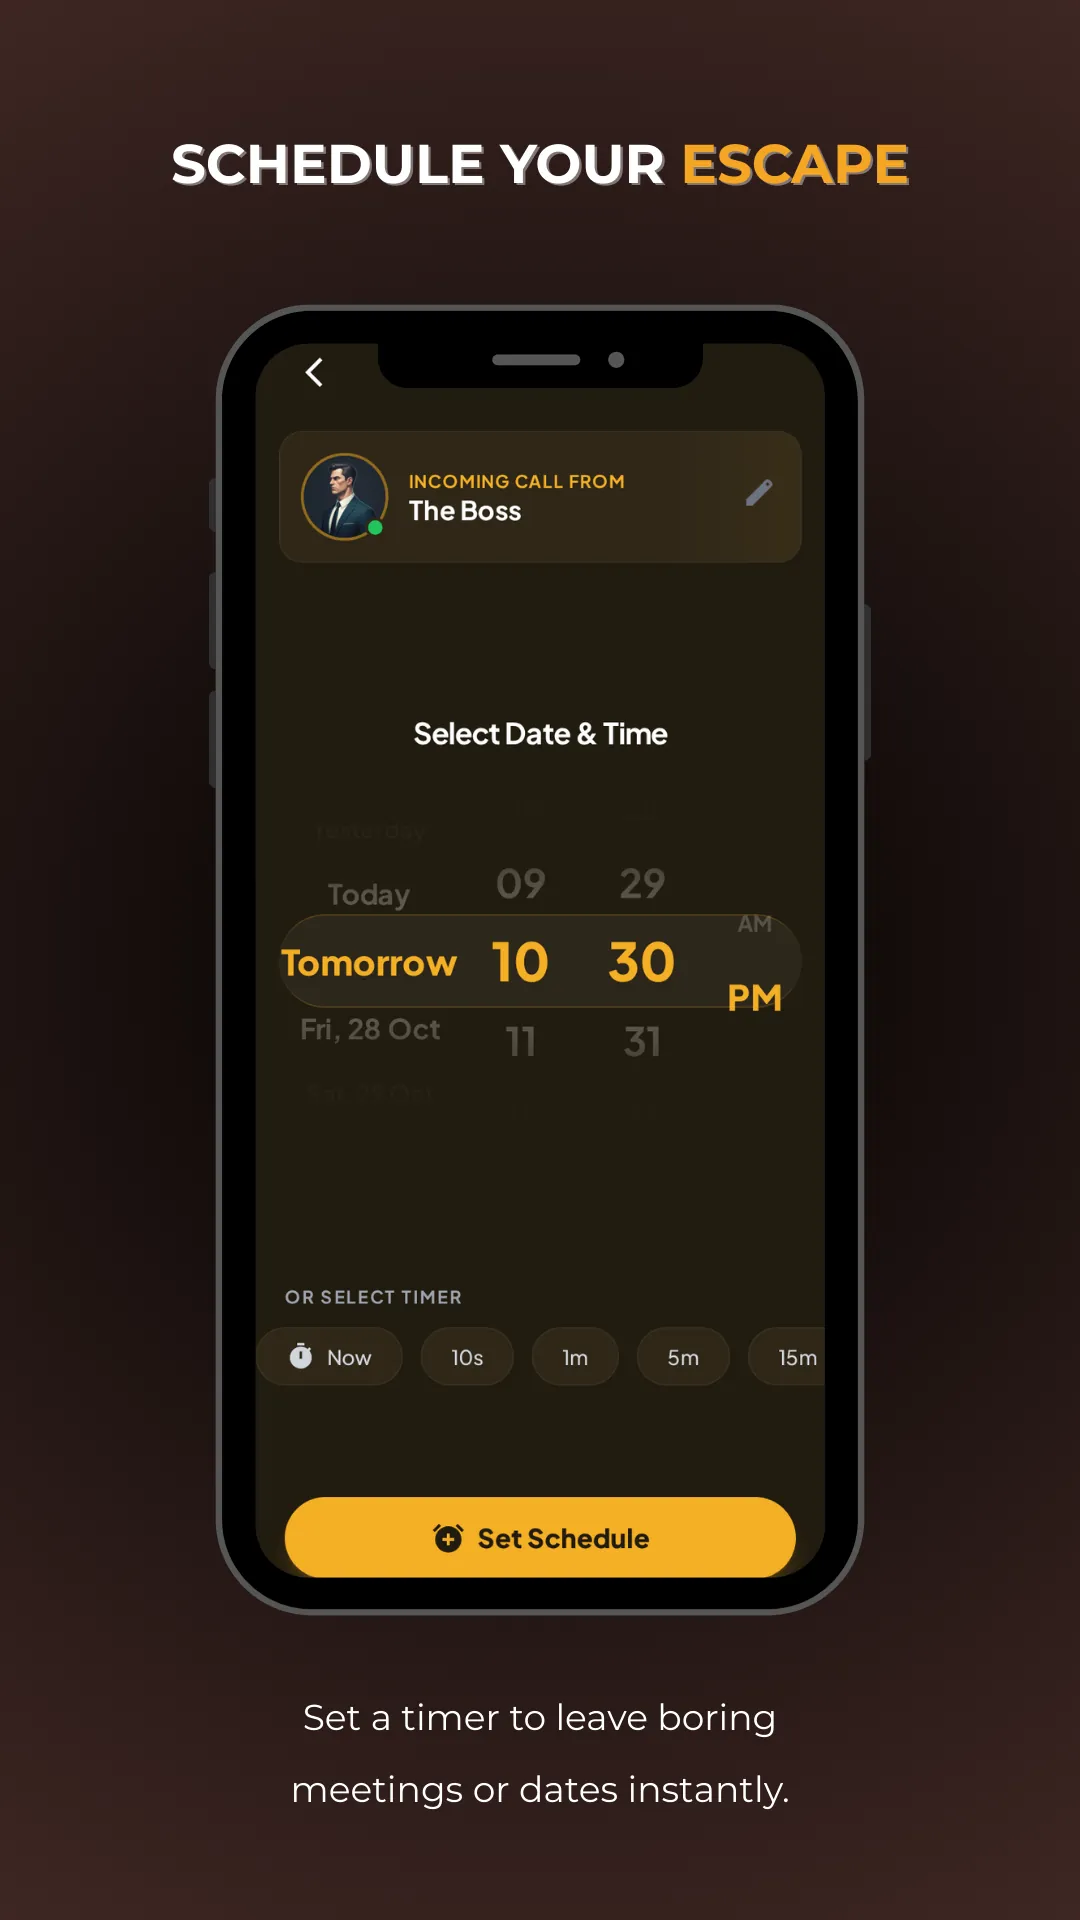
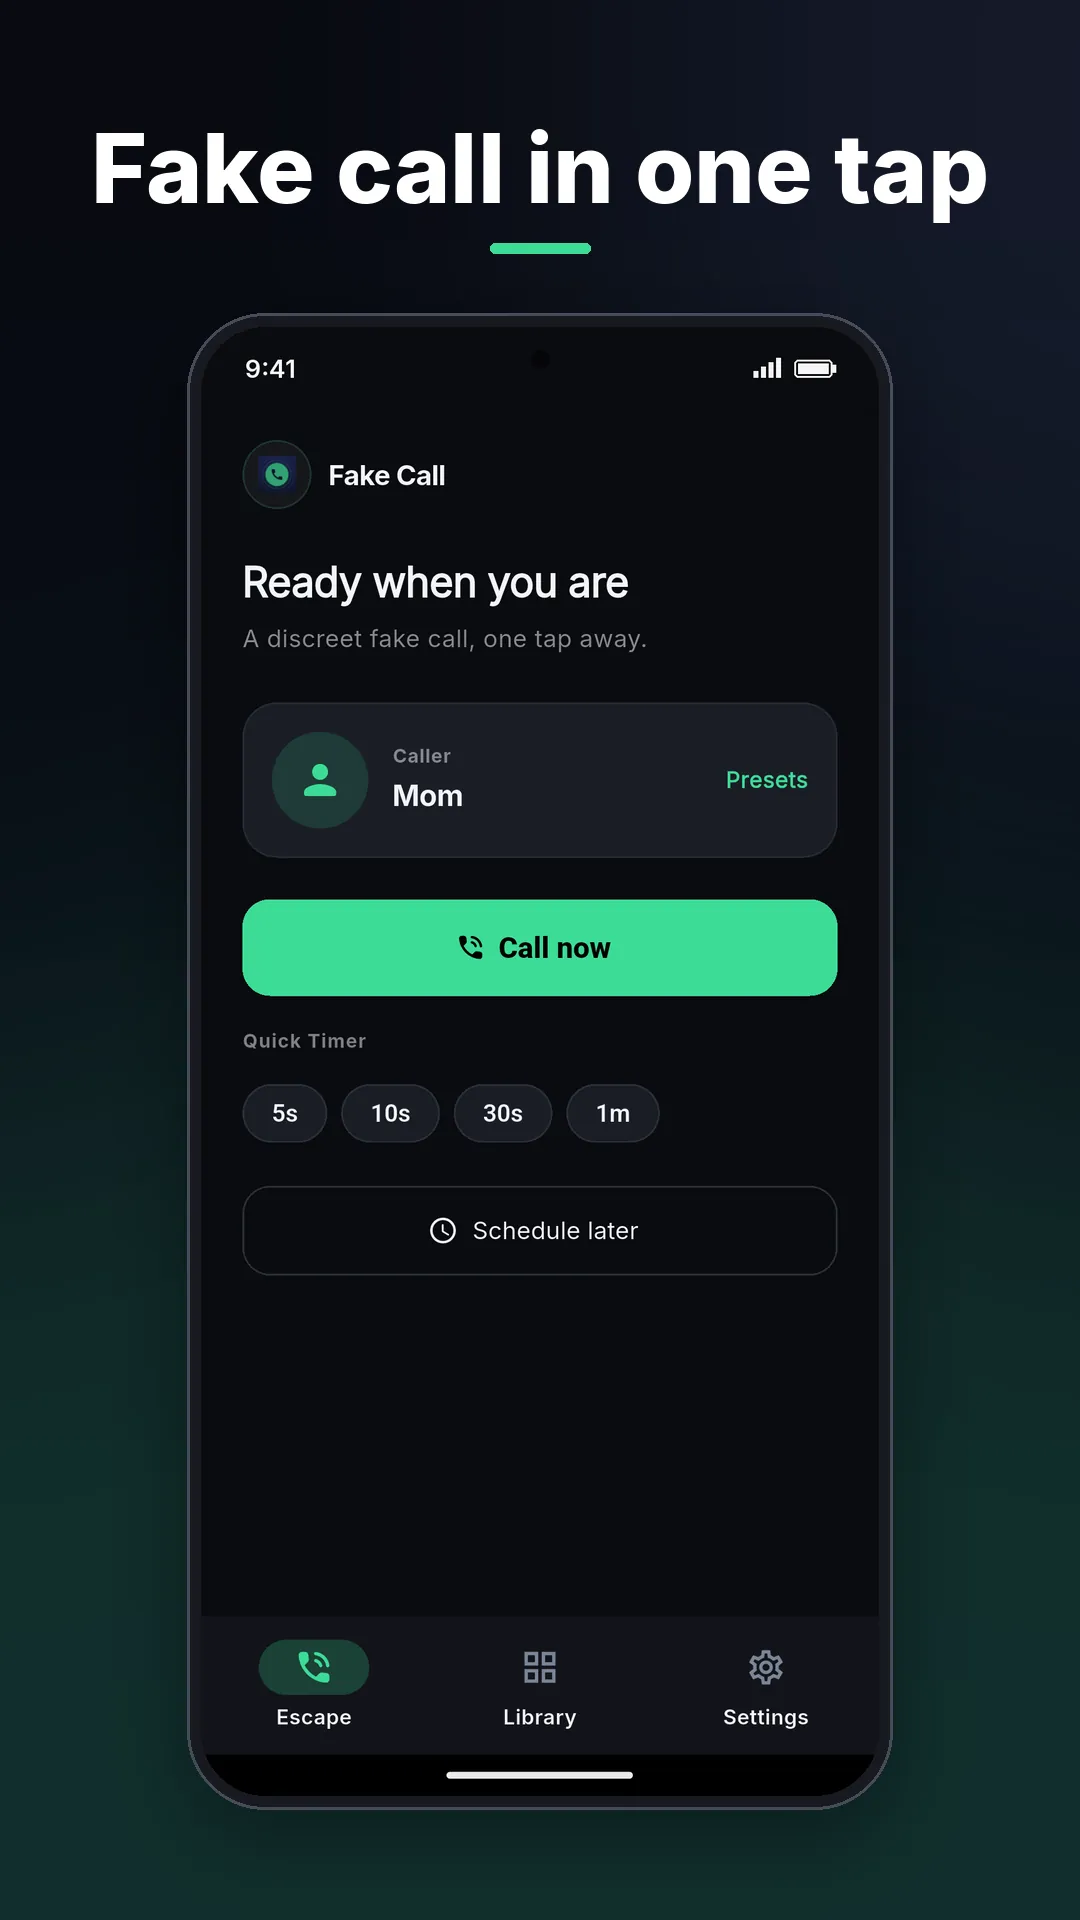
Refresh studio branding and Fake Call screenshots.
Use the current Boa Apps Studio mark, favicons, and Fake Call icon, and replace the product screenshots with the current Play listing.

diff --git a/data/apps.ts b/data/apps.ts
@@ -19,11 +19,13 @@ export interface AppData {
   version: string;
   icon: string;
   screenshots: string[];
+  screenshotAlts?: string[];
   storeLinks: {
     googlePlay?: string;
     appStore?: string;
   };
   monetization: string;
+  adNote?: string;
   privacyPolicy: string;
   features: string[];
   lastUpdated: string;
@@ -42,7 +44,7 @@ export const apps: AppData[] = [
     name: "Fake Incoming Call - Prank",
     tagline: "Simulate incoming calls to escape awkward situations.",
     description:
-      "Fake Incoming Call - Prank lets you simulate realistic incoming calls with customizable caller name, ringtone, and delay. Designed purely for entertainment purposes to help you exit awkward or boring situations in a fun way.",
+      "Fake Incoming Call - Prank lets you simulate realistic incoming calls with a customizable caller name, ringtone, and delay. You can cancel a scheduled call before it rings, and ads are not shown during a call. Designed purely for entertainment purposes to help you exit awkward or boring situations in a fun way.",
     version: "1.0.0",
     icon: "/icons/fake-incoming-call.png",
     screenshots: [
@@ -50,19 +52,34 @@ export const apps: AppData[] = [
       "/screenshots/fake-incoming-call/2.webp",
       "/screenshots/fake-incoming-call/3.webp",
       "/screenshots/fake-incoming-call/4.webp",
-      "/screenshots/fake-incoming-call/5.webp"
+      "/screenshots/fake-incoming-call/5.webp",
+      "/screenshots/fake-incoming-call/6.webp",
+      "/screenshots/fake-incoming-call/7.webp",
+      "/screenshots/fake-incoming-call/8.webp"
+    ],
+    screenshotAlts: [
+      "Looks like a real call. Incoming call screen for a caller named Mom.",
+      "Fake call in one tap. Call setup with caller Mom, Call now, a quick timer, and schedule later.",
+      "10+ call screen styles. Call screen theme choices, including free layouts.",
+      "Voice and script after you answer. In-call screen for a caller named Boss.",
+      "Any caller, any name. Library of caller scenarios such as Mom, Boss, and Courier.",
+      "Schedule it. Cancel anytime. Schedule a call and cancel it before it rings.",
+      "Start from your home screen. Settings for a script after you answer and a home screen shortcut.",
+      "No ads during your call. Call setup shown with no ad on the call screen."
     ],
     storeLinks: {
       googlePlay: "https://play.google.com/store/apps/details?id=com.boaapps.fakeincomingcall",
       appStore: "#"
     },
     monetization: "Free • Ad-supported",
+    adNote: "Ads are not shown during a call.",
     privacyPolicy: "/privacy-policy/fake-incoming-call-prank",
     features: [
       "Fake incoming call simulation",
       "Custom caller name and number",
       "Selectable ringtone",
-      "Scheduled call delay",
+      "Schedule a call and cancel before it rings",
+      "No ads during a call",
       "Works fully offline",
       "For entertainment purposes only"
     ],
@@ -79,7 +96,7 @@ export const apps: AppData[] = [
       {
         question: "Is the app free?",
         answer:
-          "Yes. The app is free and ad-supported. It may display ads from third-party partners such as Google AdMob."
+          "Yes. The app is free and ad-supported. It may display ads from third-party partners such as Google AdMob. Ads are not shown during a call."
       },
       {
         question: "Does the app access my contacts or location?",
@@ -89,7 +106,7 @@ export const apps: AppData[] = [
       {
         question: "Can I set the caller name and a timer?",
         answer:
-          "Yes. You can set a custom caller name and number, choose a ringtone, and schedule a call delay."
+          "Yes. You can set a custom caller name and number, choose a ringtone, and schedule a call. You can cancel it before it rings."
       },
       {
         question: "Does the app work offline?",
@@ -124,7 +141,7 @@ export const apps: AppData[] = [
         icon: "Ad",
         title: "Advertising Data",
         description:
-          "The app may display ads provided by third-party advertising partners such as Google AdMob."
+          "The app may display ads provided by third-party advertising partners such as Google AdMob. Ads are not shown during a call."
       },
       {
         icon: "Bug",

diff --git a/components/ScreenshotCarousel.tsx b/components/ScreenshotCarousel.tsx
@@ -7,9 +7,14 @@ import { ChevronLeft, ChevronRight, Smartphone } from "lucide-react";
 interface ScreenshotCarouselProps {
     screenshots: string[];
     appName: string;
+    alts?: string[];
 }
 
-export default function ScreenshotCarousel({ screenshots, appName }: ScreenshotCarouselProps) {
+function altText(alts: string[] | undefined, appName: string, index: number) {
+    return alts?.[index] || `${appName} screenshot ${index + 1}`;
+}
+
+export default function ScreenshotCarousel({ screenshots, appName, alts }: ScreenshotCarouselProps) {
     const scrollContainerRef = useRef<HTMLDivElement>(null);
     const [showLeftArrow, setShowLeftArrow] = useState(false);
     const [showRightArrow, setShowRightArrow] = useState(true);
@@ -57,10 +62,10 @@ export default function ScreenshotCarousel({ screenshots, appName }: ScreenshotC
         return (
             <div className={`grid grid-cols-1 sm:grid-cols-${screenshots.length} gap-6 max-w-5xl`}>
                 {screenshots.map((src, index) => (
-                    <div key={index} className="aspect-[9/19] w-full overflow-hidden rounded-2xl bg-slate-100 border border-slate-200 shadow-sm relative group">
+                    <div key={index} className="aspect-[9/16] w-full overflow-hidden rounded-2xl bg-slate-100 border border-slate-200 shadow-sm relative group">
                         <Image
                             src={src}
-                            alt={`${appName} screenshot ${index + 1}`}
+                            alt={altText(alts, appName, index)}
                             fill
                             sizes="(min-width: 1024px) 320px, (min-width: 640px) 45vw, 90vw"
                             className="object-cover"
@@ -95,11 +100,11 @@ export default function ScreenshotCarousel({ screenshots, appName }: ScreenshotC
                 {screenshots.map((src, index) => (
                     <div
                         key={index}
-                        className="snap-center shrink-0 w-[200px] sm:w-[260px] md:w-[280px] aspect-[9/19] overflow-hidden rounded-2xl bg-slate-100 border border-slate-200 shadow-sm relative"
+                        className="snap-center shrink-0 w-[200px] sm:w-[260px] md:w-[280px] aspect-[9/16] overflow-hidden rounded-2xl bg-slate-100 border border-slate-200 shadow-sm relative"
                     >
                         <Image
                             src={src}
-                            alt={`${appName} screenshot ${index + 1}`}
+                            alt={altText(alts, appName, index)}
                             fill
                             sizes="(min-width: 768px) 280px, (min-width: 640px) 260px, 200px"
                             className="object-cover"

diff --git a/app/layout.tsx b/app/layout.tsx
@@ -20,13 +20,13 @@ import Footer from "@/components/Footer";
 export const metadata: Metadata = {
   metadataBase: new URL("https://boaappstudio.com"),
   title: {
-    default: "Boa App Studio – Privacy-Focused Mobile Apps",
-    template: "%s | Boa App Studio",
+    default: "Boa Apps Studio – Privacy-Focused Mobile Apps",
+    template: "%s | Boa Apps Studio",
   },
-  description: "Transparent, privacy-focused mobile apps from Boa App Studio, including Fake Incoming Call - Prank.",
-  keywords: ["mobile apps", "privacy focused", "productivity tools", "clean software", "android apps", "prank apps", "Boa App Studio"],
-  authors: [{ name: "Boa App Studio" }],
-  creator: "Boa App Studio",
+  description: "Transparent, privacy-focused mobile apps from Boa Apps Studio, including Fake Incoming Call - Prank.",
+  keywords: ["mobile apps", "privacy focused", "productivity tools", "clean software", "android apps", "prank apps", "Boa Apps Studio"],
+  authors: [{ name: "Boa Apps Studio" }],
+  creator: "Boa Apps Studio",
   robots: {
     index: true,
     follow: true,
@@ -35,21 +35,21 @@ export const metadata: Metadata = {
     type: "website",
     locale: "en_US",
     url: "https://boaappstudio.com",
-    title: "Boa App Studio",
-    description: "Transparent, privacy-focused mobile apps from Boa App Studio, including Fake Incoming Call - Prank.",
-    siteName: "Boa App Studio",
+    title: "Boa Apps Studio",
+    description: "Transparent, privacy-focused mobile apps from Boa Apps Studio, including Fake Incoming Call - Prank.",
+    siteName: "Boa Apps Studio",
     images: [{
       url: "/og-image.jpg",
       width: 1200,
       height: 630,
-      alt: "Boa App Studio",
+      alt: "Boa Apps Studio",
     }],
   },
   twitter: {
     card: "summary_large_image",
     site: "@boaappstudio",
-    title: "Boa App Studio",
-    description: "Transparent, privacy-focused mobile apps from Boa App Studio, including Fake Incoming Call - Prank.",
+    title: "Boa Apps Studio",
+    description: "Transparent, privacy-focused mobile apps from Boa Apps Studio, including Fake Incoming Call - Prank.",
     images: ["/og-image.jpg"],
   },
   manifest: "/manifest.json",

diff --git a/components/Footer.tsx b/components/Footer.tsx
@@ -35,12 +35,13 @@ export default function Footer() {
 
                     {/* Brand Section - Takes up half the width (6 cols) */}
                     <div className="md:col-span-2 lg:col-span-6 space-y-4">
-                        <div className="flex items-center gap-2 text-slate-900 font-bold text-xl">
-                            <div className="relative h-8 w-8 overflow-hidden rounded-lg">
-                                <Image src="/logo.png" alt="Boa App Studio" fill sizes="32px" className="object-cover" />
-                            </div>
-                            <span>Boa App Studio</span>
-                        </div>
+                        <Image
+                            src="/logo-wordmark.webp"
+                            alt="Boa Apps Studio"
+                            width={1600}
+                            height={350}
+                            className="h-8 w-auto"
+                        />
                         <p className="text-slate-500 text-sm leading-relaxed max-w-sm">
                             Building transparent, privacy-focused tools for everyday productivity. No hidden clauses, just great software.
                         </p>
@@ -107,7 +108,7 @@ export default function Footer() {
                 {/* Bottom Bar */}
                 <div className="border-t border-slate-100 pt-6 flex flex-col md:flex-row items-center justify-between gap-4">
                     <p className="text-xs text-slate-400">
-                        © {new Date().getFullYear()} Boa App Studio. All rights reserved.
+                        © {new Date().getFullYear()} Boa Apps Studio. All rights reserved.
                     </p>
 
                     <div className="flex flex-col md:flex-row items-center gap-4 md:gap-8">

diff --git a/components/Navbar.tsx b/components/Navbar.tsx
@@ -17,13 +17,15 @@ export default function Navbar() {
         <nav className="sticky top-0 z-50 border-b border-slate-200 bg-white/80 backdrop-blur-md">
             <div className="container mx-auto flex h-16 items-center justify-between px-4 sm:px-6 lg:px-8">
                 <div className="flex items-center">
-                    <Link href="/" className="flex items-center gap-3 group">
-                        <div className="relative h-14 w-14 overflow-hidden rounded-lg shadow-sm transition-transform group-hover:scale-105">
-                            <Image src="/logo.png" alt="Boa App Studio" fill priority sizes="56px" className="object-cover" />
-                        </div>
-                        <span className="text-xl font-bold tracking-tight text-slate-900">
-                            Boa App Studio
-                        </span>
+                    <Link href="/" className="group inline-flex items-center">
+                        <Image
+                            src="/logo-wordmark.webp"
+                            alt="Boa Apps Studio"
+                            width={1600}
+                            height={350}
+                            priority
+                            className="h-9 w-auto sm:h-10 transition-opacity group-hover:opacity-80"
+                        />
                     </Link>
                 </div>
 

diff --git a/app/apps/[slug]/page.tsx b/app/apps/[slug]/page.tsx
@@ -130,7 +130,7 @@ export default async function AppDetailPage({ params }: PageProps) {
                                 <h2 className="text-xl font-bold text-slate-900">App Interface</h2>
                             </div>
 
-                            <ScreenshotCarousel screenshots={app.screenshots} appName={app.name} />
+                            <ScreenshotCarousel screenshots={app.screenshots} alts={app.screenshotAlts} appName={app.name} />
 
                             <p className="mt-4 text-center text-xs text-slate-400 italic">
                                 Images represent the current version of the application on compatible devices.
@@ -177,6 +177,9 @@ export default async function AppDetailPage({ params }: PageProps) {
                             <p className="text-sm text-slate-600 leading-relaxed">
                                 We carefully select ad partners to ensure ads are non-intrusive and do not interfere with functionality.
                             </p>
+                            {app.adNote ? (
+                                <p className="mt-2 text-sm text-slate-600 leading-relaxed">{app.adNote}</p>
+                            ) : null}
                         </div>
                     </div>
 

diff --git a/app/apps/page.tsx b/app/apps/page.tsx
@@ -4,7 +4,7 @@ import { breadcrumbJsonLd, pageMetadata } from "@/lib/seo";
 
 export const metadata = pageMetadata({
   title: "Apps",
-  description: "Mobile apps from Boa App Studio, including Fake Incoming Call - Prank for Android.",
+  description: "Mobile apps from Boa Apps Studio, including Fake Incoming Call - Prank for Android.",
   path: "/apps",
 });
 
@@ -22,7 +22,7 @@ export default function AppsPage() {
           Our Apps
         </h1>
         <p className="text-lg text-slate-600">
-          Browse the mobile apps published by Boa App Studio.
+          Browse the mobile apps published by Boa Apps Studio.
         </p>
       </div>
 

diff --git a/lib/seo.ts b/lib/seo.ts
@@ -2,7 +2,7 @@ import type { Metadata } from "next";
 import type { AppData } from "@/data/apps";
 
 export const SITE_URL = "https://boaappstudio.com";
-export const SITE_NAME = "Boa App Studio";
+export const SITE_NAME = "Boa Apps Studio";
 export const TWITTER_SITE = "@boaappstudio";
 export const CONTACT_EMAIL = "contact@boaappstudio.com";
 export const OG_IMAGE = "/og-image.jpg";
@@ -90,8 +90,8 @@ export function organizationJsonLd() {
     logo: {
       "@type": "ImageObject",
       url: `${SITE_URL}/logo.png`,
-      width: 250,
-      height: 150,
+      width: 512,
+      height: 512,
     },
     sameAs: [...sameAs],
   };

diff --git a/app/page.tsx b/app/page.tsx
@@ -5,8 +5,8 @@ import { faqData } from "@/data/faq";
 import { faqNode, organizationJsonLd, pageMetadata, websiteJsonLd } from "@/lib/seo";
 
 export const metadata = pageMetadata({
-  title: "Boa App Studio – Privacy-Focused Mobile Apps",
-  description: "Transparent, privacy-focused mobile apps from Boa App Studio, including Fake Incoming Call - Prank.",
+  title: "Boa Apps Studio – Privacy-Focused Mobile Apps",
+  description: "Transparent, privacy-focused mobile apps from Boa Apps Studio, including Fake Incoming Call - Prank.",
   path: "/",
   absoluteTitle: true,
 });

diff --git a/app/privacy-policy/page.tsx b/app/privacy-policy/page.tsx
@@ -6,7 +6,7 @@ import { breadcrumbJsonLd, pageMetadata } from "@/lib/seo";
 
 export const metadata = pageMetadata({
     title: "Privacy Policy",
-    description: "Privacy policy for the Boa App Studio website, including anonymous analytics, support emails, and links to each app policy.",
+    description: "Privacy policy for the Boa Apps Studio website, including anonymous analytics, support emails, and links to each app policy.",
     path: "/privacy-policy",
 });
 

diff --git a/app/privacy-policy/[slug]/page.tsx b/app/privacy-policy/[slug]/page.tsx
@@ -35,7 +35,7 @@ export async function generateMetadata({ params }: PageProps) {
 
     return pageMetadata({
         title: `${app.name} Privacy Policy`,
-        description: `Privacy policy for ${app.name}, including ads, crash information, and how to contact Boa App Studio.`,
+        description: `Privacy policy for ${app.name}, including ads, crash information, and how to contact Boa Apps Studio.`,
         path: `/privacy-policy/${app.id}`,
     });
 }

diff --git a/app/manifest.ts b/app/manifest.ts
@@ -2,8 +2,8 @@ import { MetadataRoute } from "next";
 
 export default function manifest(): MetadataRoute.Manifest {
     return {
-        name: "Boa App Studio",
-        short_name: "Boa Studio",
+        name: "Boa Apps Studio",
+        short_name: "Boa Apps",
         description: "Transparent, privacy-focused tools designed for everyday productivity.",
         start_url: "/",
         display: "standalone",
